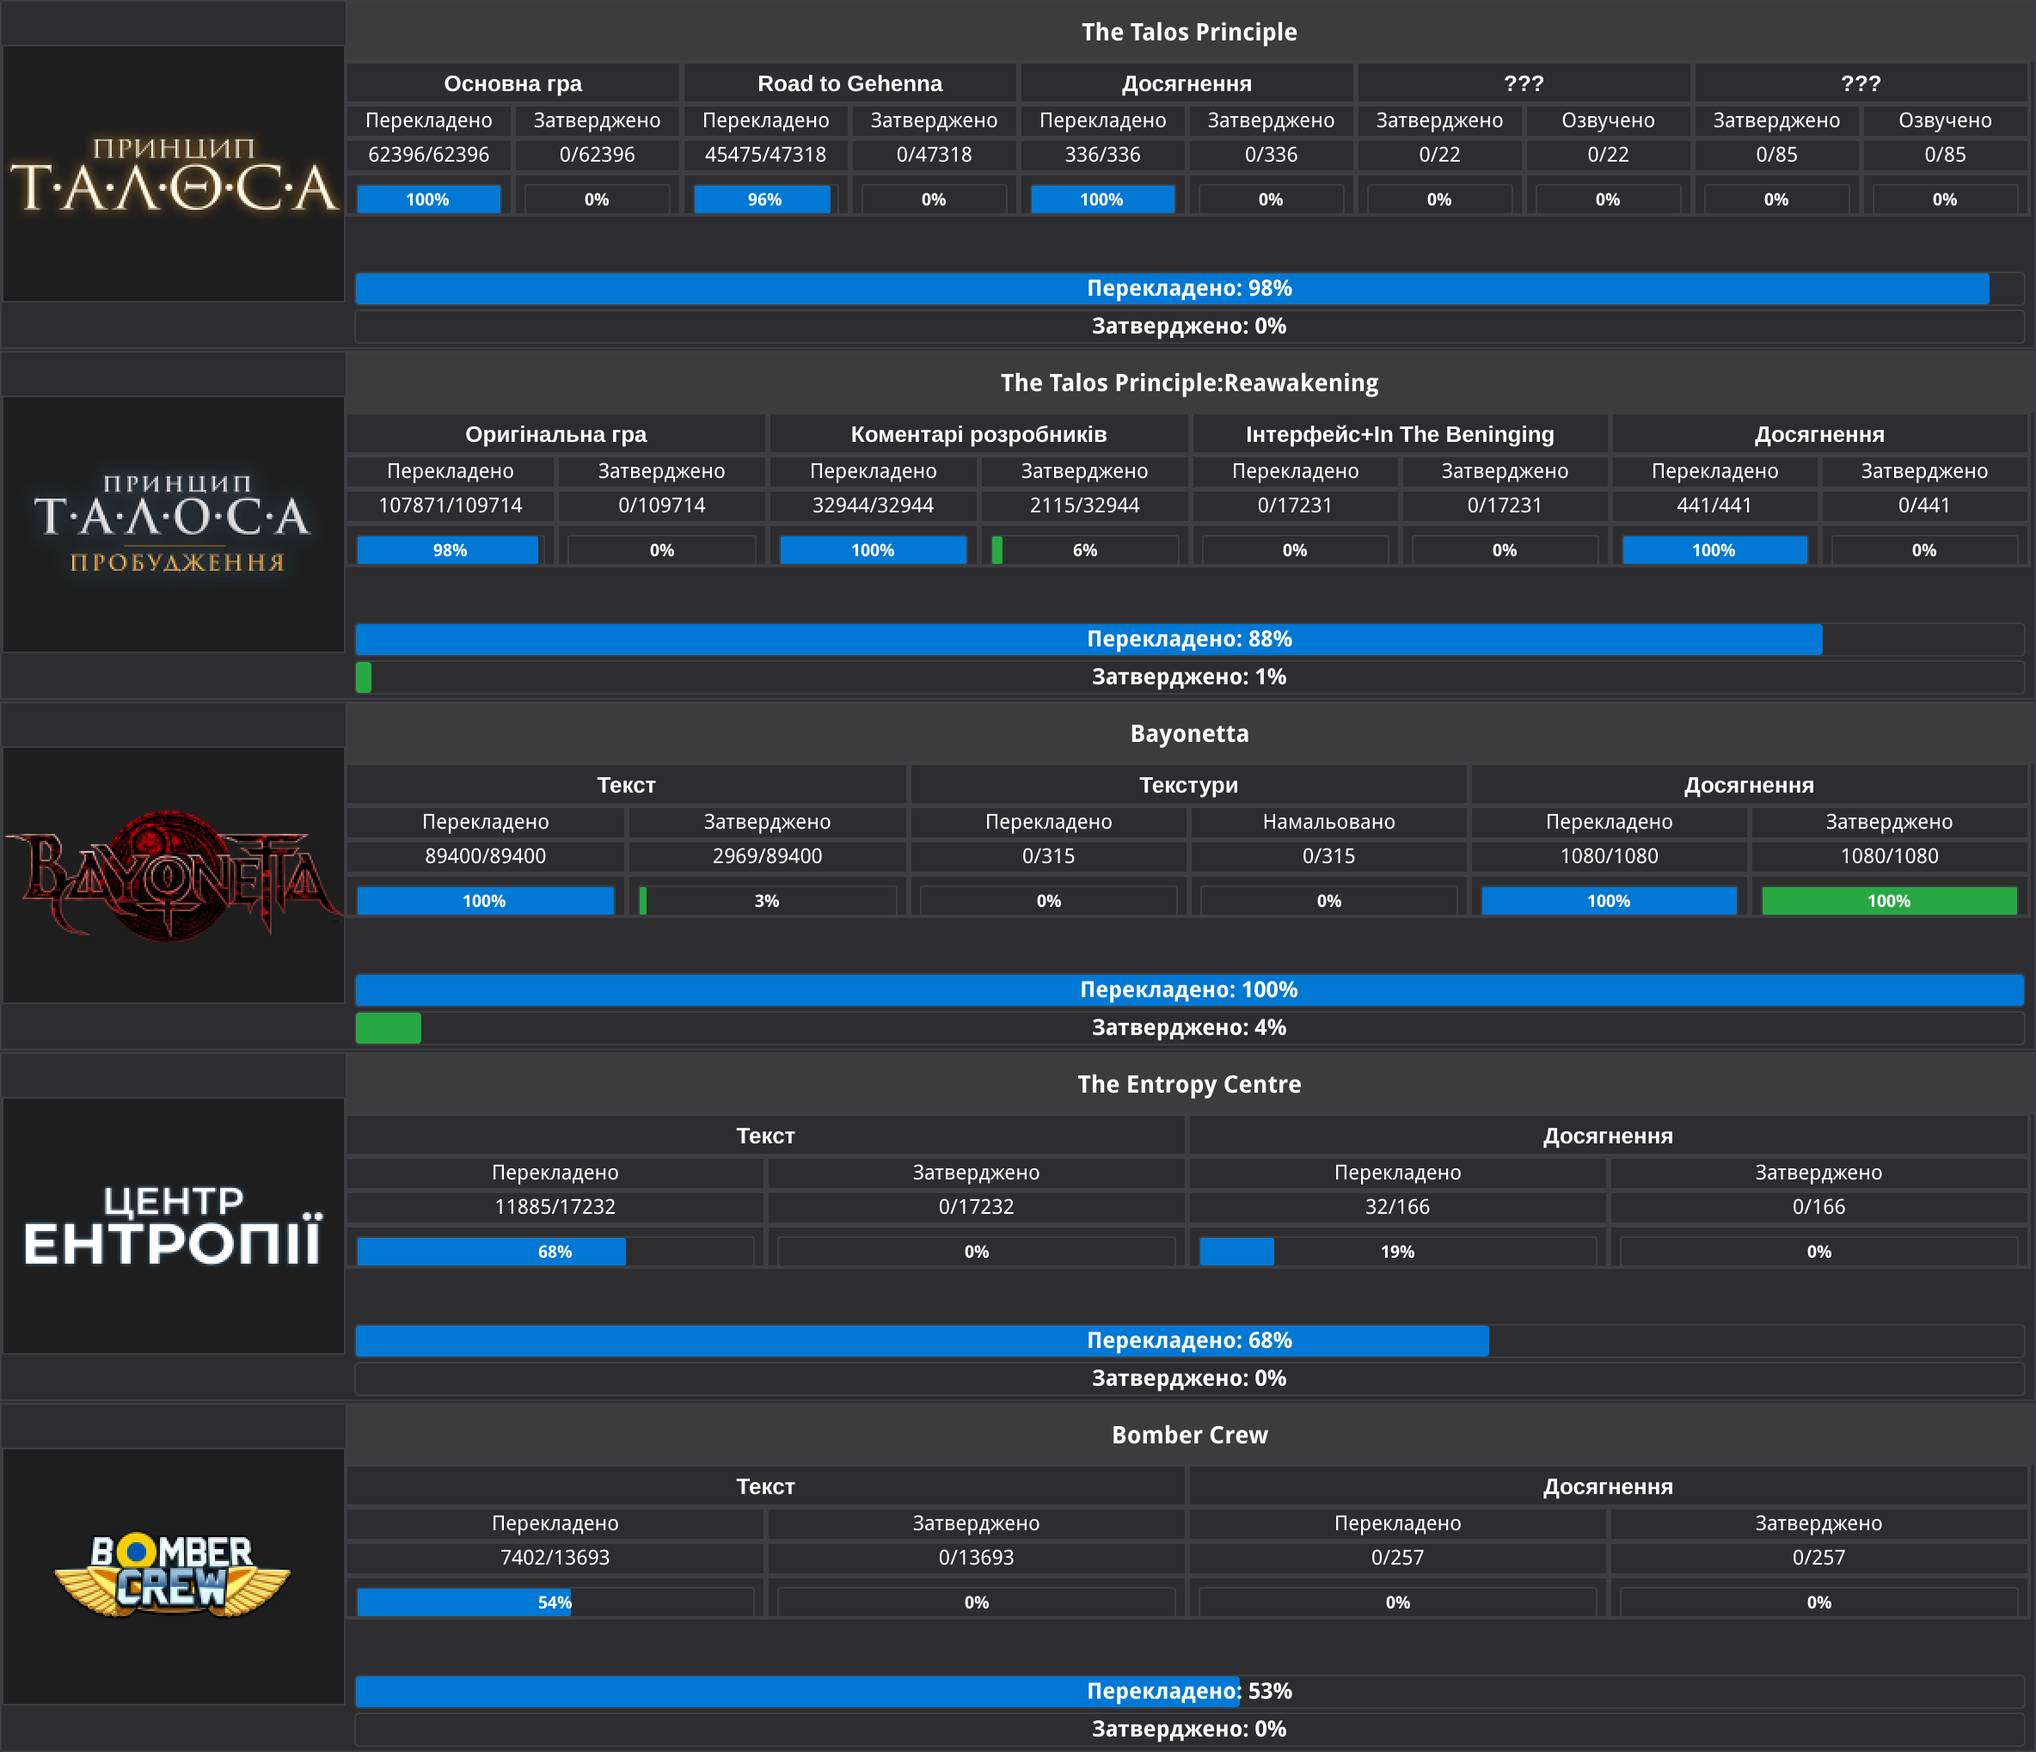
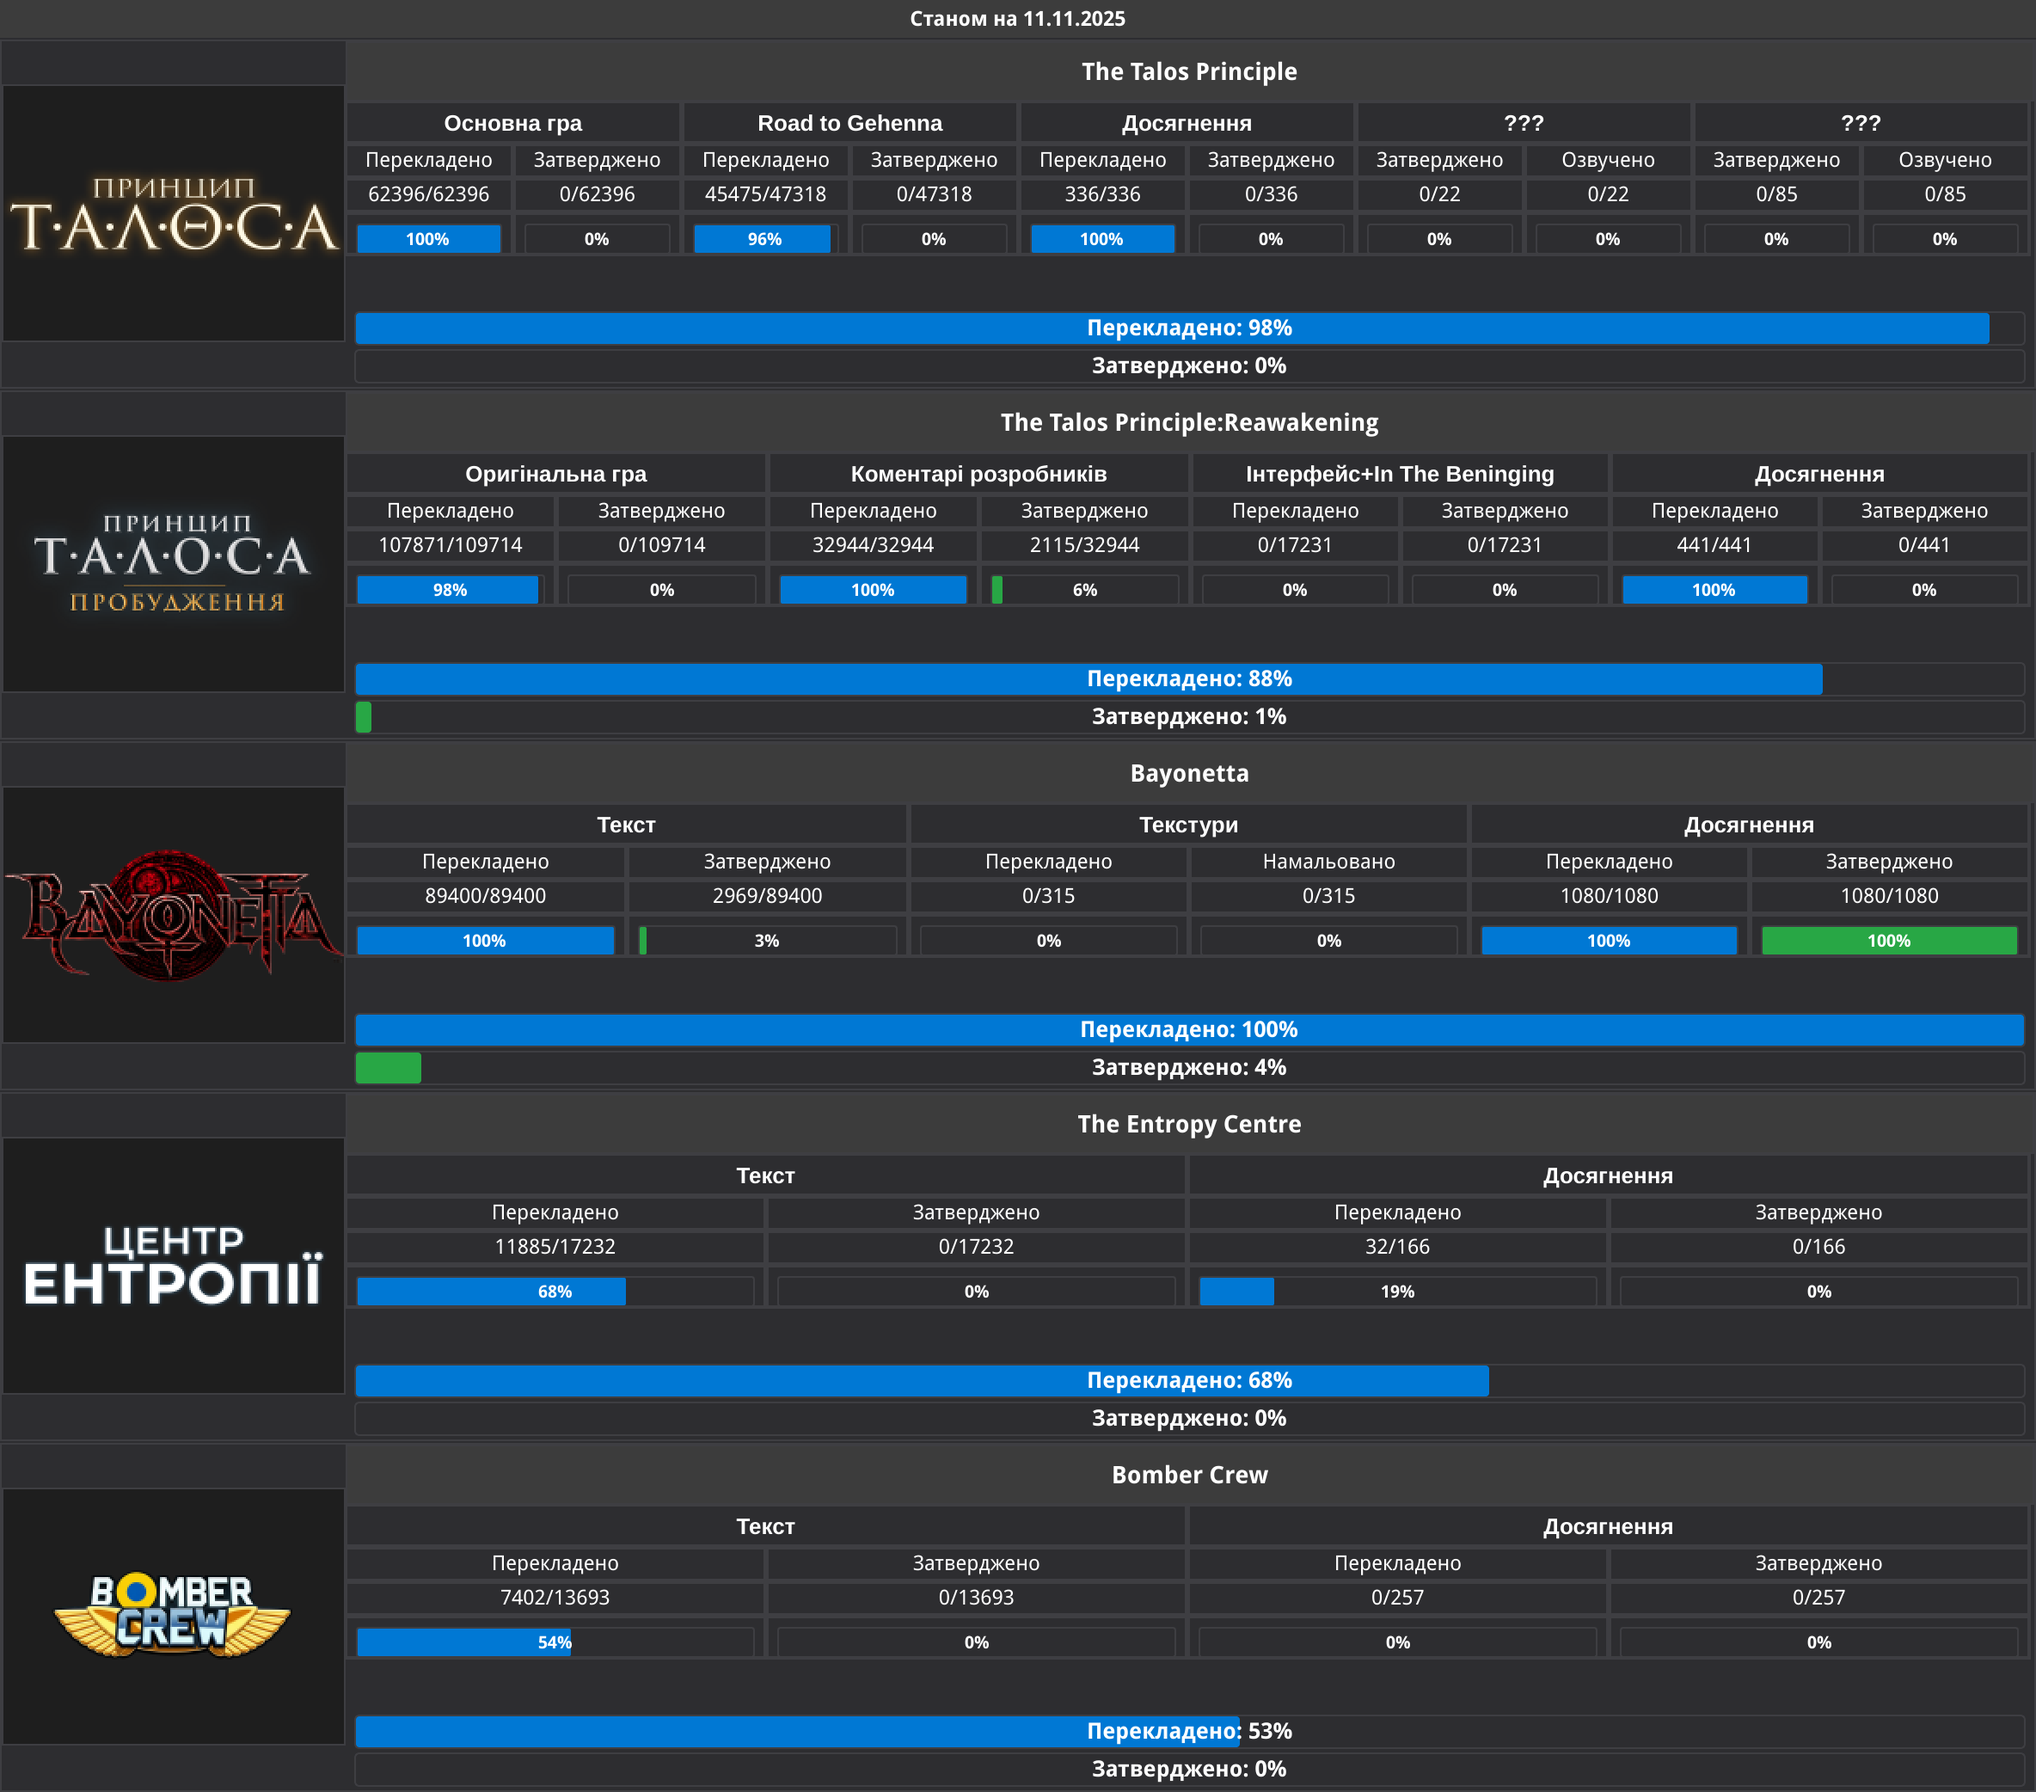
Added date displaying

diff --git a/main.py b/main.py
@@ -8,6 +8,7 @@ from PyQt6.QtWidgets import (
 )
 from PyQt6.QtGui import QPixmap, QPalette, QColor, QFont, QPainter
 from PyQt6.QtCore import Qt
+from datetime import datetime
 
 DATA_FILE = "data.json"
 
@@ -23,6 +24,8 @@ class StatsWindow(QWidget):
         self.setWindowTitle("Статистика перекладу")
         self.resize(1200, 400)
 
+
+
         # Прокрутка
         scroll = QScrollArea()
         scroll.setWidgetResizable(True)
@@ -30,6 +33,20 @@ class StatsWindow(QWidget):
         main_layout = QVBoxLayout(scroll_widget)
         main_layout.setSpacing(1)
         main_layout.setContentsMargins(0, 0, 0, 0)
+
+        today_str = datetime.now().strftime("%d.%m.%Y")
+        date_label = QLabel(f"Станом на {today_str}")
+        date_label.setAlignment(Qt.AlignmentFlag.AlignCenter)
+        date_label.setStyleSheet("""
+            QLabel {
+                background-color: #3c3c3c;
+                color: white;
+                font-weight: bold;
+                font-size: 12px;
+                padding: 4px;
+            }
+        """)
+        main_layout.addWidget(date_label)
         
         for game in data:
             # Головний контейнер для гри
